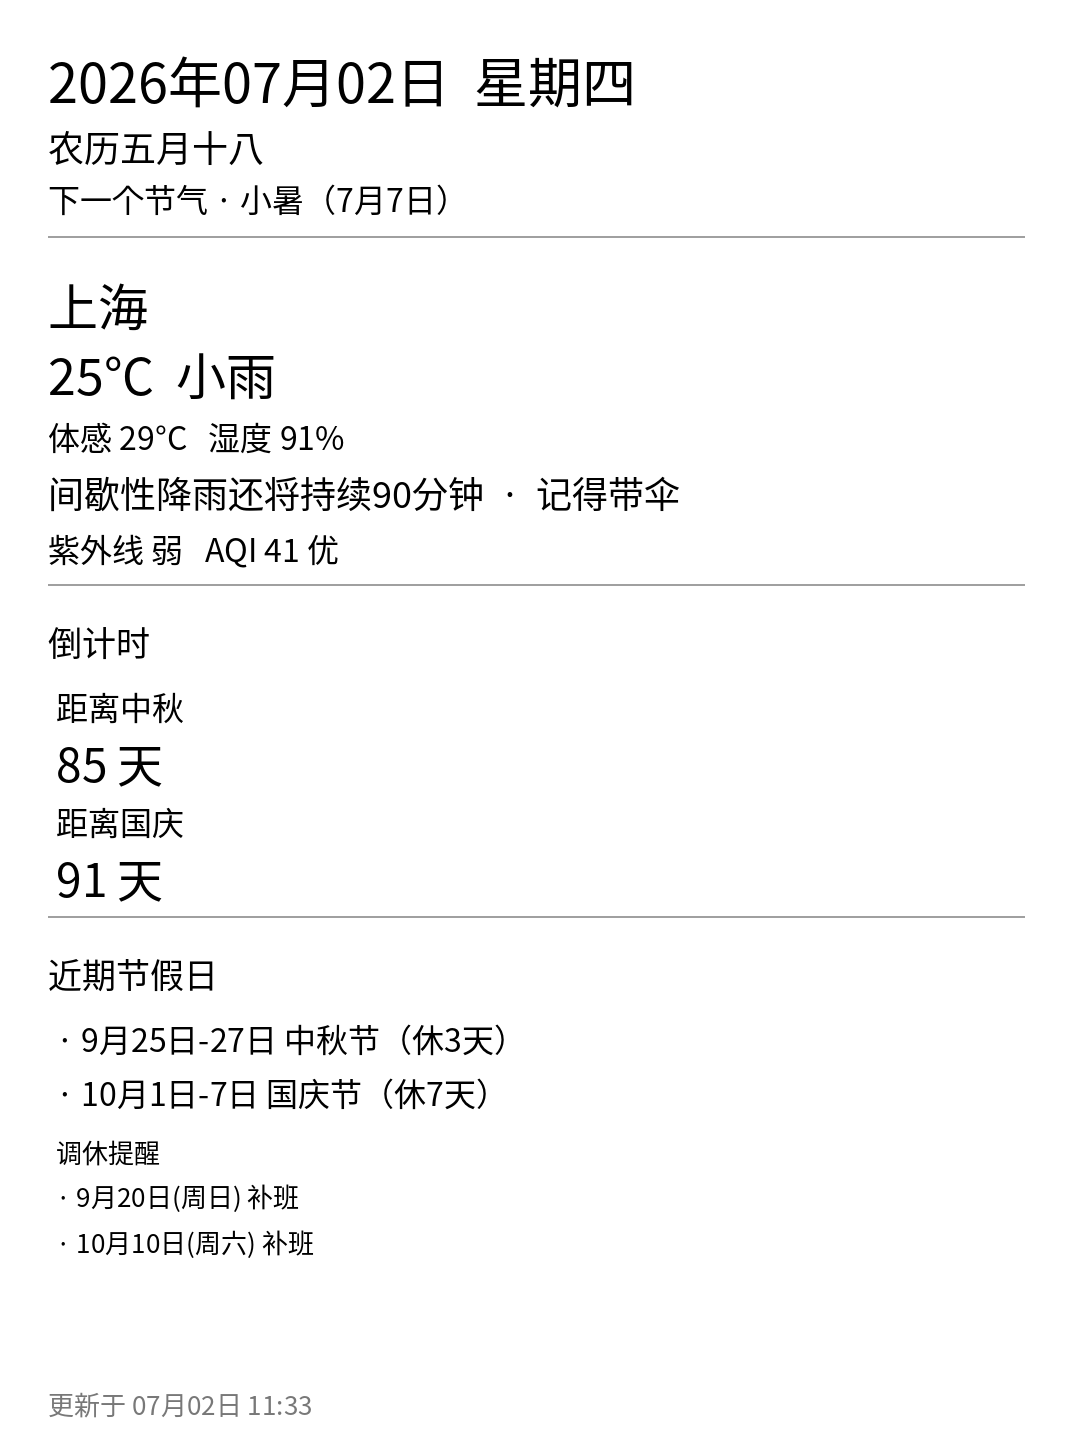
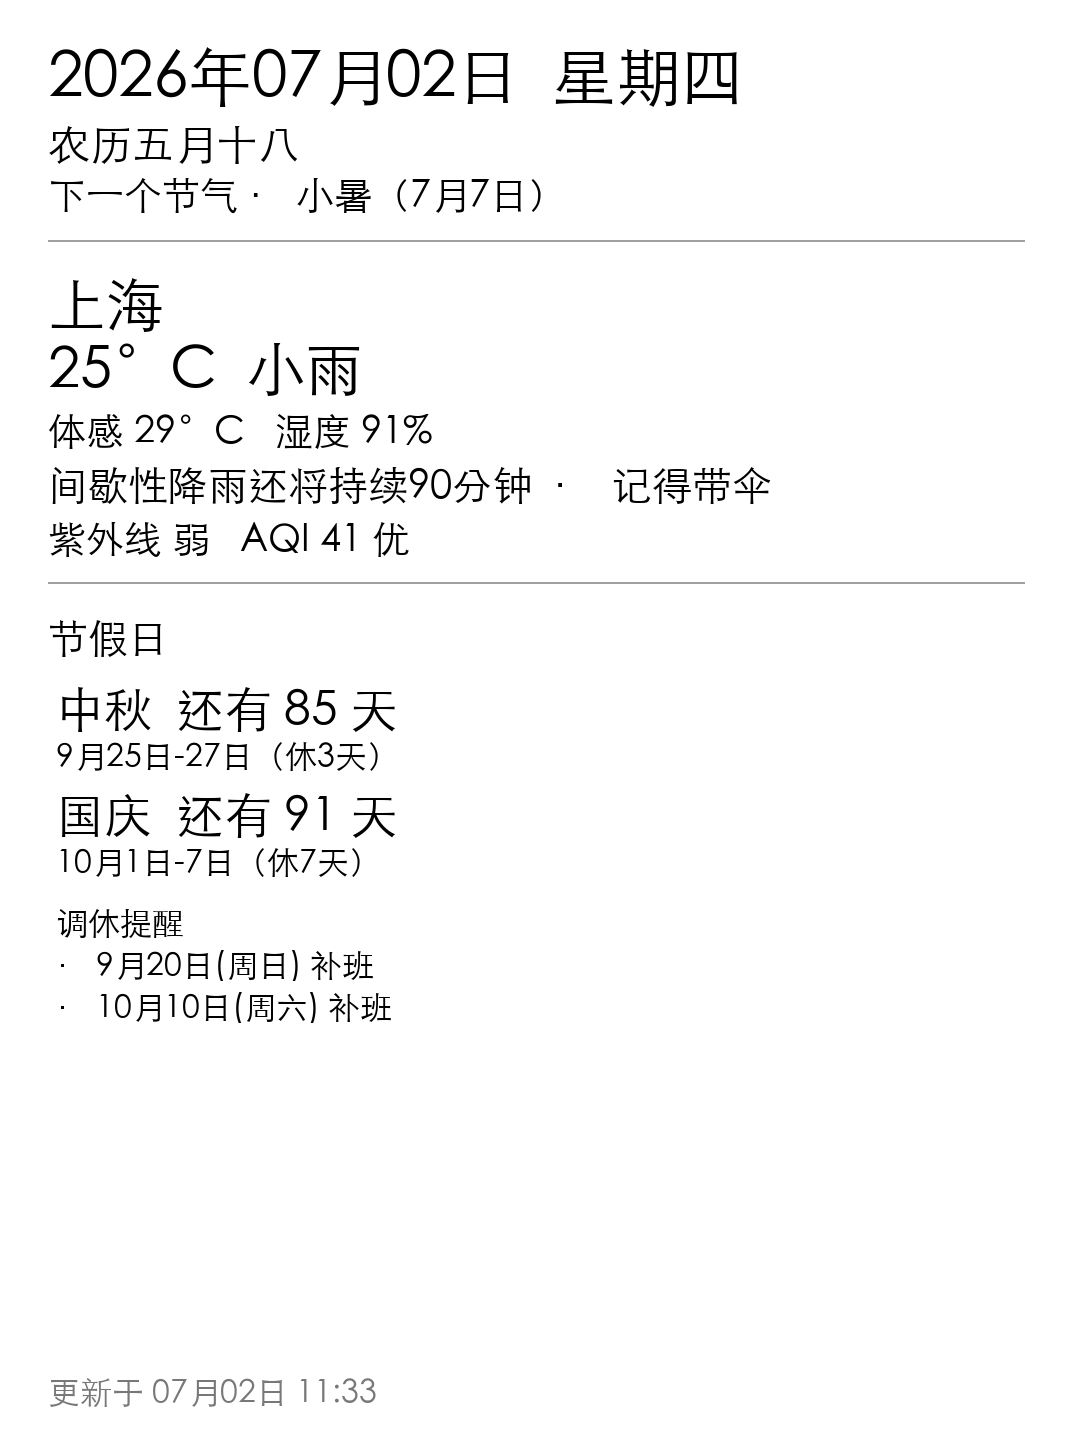
update

diff --git a/data_sources.py b/data_sources.py
@@ -12,6 +12,15 @@ import config
 
 
 @dataclass
+class HolidayItem:
+    name: str
+    days_until: int
+    date_range: str
+    off_days: int
+    is_estimate: bool
+
+
+@dataclass
 class DashboardData:
     now: datetime
     weekday: str
@@ -19,7 +28,7 @@ class DashboardData:
     jieqi_today: str
     next_jieqi_name: str
     next_jieqi_date: str
-    countdowns: list[tuple[str, int, bool]]  # name, days, is_lunar_estimate
+    holiday_items: list[HolidayItem]
     weather_text: str
     temperature: str
     feels_like: str
@@ -29,13 +38,10 @@ class DashboardData:
     uv_level: str
     aqi: str
     aqi_category: str
-    upcoming_holidays: list[str]
     makeup_workdays: list[str]
 
 
 WEEKDAYS = ["星期一", "星期二", "星期三", "星期四", "星期五", "星期六", "星期日"]
-
-COUNTDOWN_TARGETS = ["春节", "国庆", "中秋", "元旦", "清明", "端午", "劳动节"]
 
 
 def _headers() -> dict[str, str]:
@@ -84,38 +90,75 @@ def get_lunar_spring_festival_date(today: date) -> date:
     return spring_date
 
 
-def build_countdowns(today: date, holidays: list[dict[str, Any]]) -> list[tuple[str, int, bool]]:
-    results: list[tuple[str, int, bool]] = []
-    seen: set[str] = set()
+def short_holiday_name(name: str) -> str:
+    name = normalize_holiday_name(name)
+    if name.endswith("节") and len(name) > 2:
+        return name[:-1]
+    return name
 
-    for target in COUNTDOWN_TARGETS:
-        for item in holidays:
-            name = item.get("name", "")
-            if target not in name or not item.get("isOffDay"):
-                continue
-            holiday_date = date.fromisoformat(item["date"])
-            if holiday_date < today:
-                continue
-            if target in seen:
-                break
-            seen.add(target)
-            results.append((target, (holiday_date - today).days, False))
-            break
 
-    if "春节" not in seen:
+def collect_off_day_groups(holidays: list[dict[str, Any]], today: date) -> list[dict[str, Any]]:
+    items: list[dict[str, Any]] = []
+    for item in holidays:
+        holiday_date = date.fromisoformat(item["date"])
+        if holiday_date < today or holiday_date > today + timedelta(days=120):
+            continue
+        if not item.get("isOffDay"):
+            continue
+        items.append({"date": holiday_date, "name": normalize_holiday_name(item.get("name", ""))})
+
+    items.sort(key=lambda x: x["date"])
+    groups: list[dict[str, Any]] = []
+    for item in items:
+        if (
+            groups
+            and groups[-1]["name"] == item["name"]
+            and (item["date"] - groups[-1]["end"]).days == 1
+        ):
+            groups[-1]["end"] = item["date"]
+        else:
+            groups.append({"name": item["name"], "start": item["date"], "end": item["date"]})
+    return groups
+
+
+def build_holiday_overview(
+    today: date, holidays: list[dict[str, Any]]
+) -> tuple[list[HolidayItem], list[str]]:
+    items: list[HolidayItem] = []
+    for group in collect_off_day_groups(holidays, today):
+        start = group["start"]
+        end = group["end"]
+        off_days = (end - start).days + 1
+        items.append(
+            HolidayItem(
+                name=short_holiday_name(group["name"]),
+                days_until=(start - today).days,
+                date_range=format_date_range(start, end),
+                off_days=off_days,
+                is_estimate=False,
+            )
+        )
+
+    if not any("春节" in item.name for item in items):
         spring_date = get_lunar_spring_festival_date(today)
-        results.append(("春节", (spring_date - today).days, True))
+        items.append(
+            HolidayItem(
+                name="春节",
+                days_until=(spring_date - today).days,
+                date_range=f"{spring_date.month}月{spring_date.day}日",
+                off_days=1,
+                is_estimate=True,
+            )
+        )
 
-    results.sort(key=lambda x: x[1])
+    items.sort(key=lambda x: x.days_until)
+    if items:
+        nearest_days = items[0].days_until
+        max_gap = 45
+        items = [item for item in items if item.days_until <= nearest_days + max_gap][:3]
 
-    if not results:
-        return []
-
-    nearest_days = results[0][1]
-    # Hide countdowns much farther than the nearest holiday.
-    max_gap = 45
-    filtered = [item for item in results if item[1] <= nearest_days + max_gap]
-    return filtered[:2]
+    makeup = group_holiday_ranges(holidays, today, off_day=False, limit=3)
+    return items, makeup
 
 
 def normalize_holiday_name(name: str) -> str:
@@ -173,11 +216,6 @@ def group_holiday_ranges(
             lines.append(f"{date_text}(周{weekday_short}) 补班")
     return lines
 
-
-def build_upcoming_holidays(today: date, holidays: list[dict[str, Any]]) -> tuple[list[str], list[str]]:
-    upcoming = group_holiday_ranges(holidays, today, off_day=True, limit=4)
-    makeup = group_holiday_ranges(holidays, today, off_day=False, limit=3)
-    return upcoming, makeup
 
 
 def get_calendar_info(today: date) -> tuple[str, str, str, str]:
@@ -282,8 +320,7 @@ def collect_dashboard_data() -> DashboardData:
     holidays = load_holidays(today)
 
     lunar_date, jieqi_today, next_jieqi_name, next_jieqi_date = get_calendar_info(today)
-    countdowns = build_countdowns(today, holidays)
-    upcoming_holidays, makeup_workdays = build_upcoming_holidays(today, holidays)
+    holiday_items, makeup_workdays = build_holiday_overview(today, holidays)
 
     weather_text, temperature, feels_like, humidity = fetch_weather()
     raw_rain_hint = fetch_rain_hint()
@@ -298,7 +335,7 @@ def collect_dashboard_data() -> DashboardData:
         jieqi_today=jieqi_today,
         next_jieqi_name=next_jieqi_name,
         next_jieqi_date=next_jieqi_date,
-        countdowns=countdowns,
+        holiday_items=holiday_items,
         weather_text=weather_text,
         temperature=temperature,
         feels_like=feels_like,
@@ -308,6 +345,5 @@ def collect_dashboard_data() -> DashboardData:
         uv_level=uv_level,
         aqi=aqi,
         aqi_category=aqi_category,
-        upcoming_holidays=upcoming_holidays,
         makeup_workdays=makeup_workdays,
     )

diff --git a/render_dashboard.py b/render_dashboard.py
@@ -5,7 +5,7 @@ from pathlib import Path
 from PIL import Image, ImageDraw, ImageFont
 
 import config
-from data_sources import DashboardData
+from data_sources import DashboardData, HolidayItem
 
 
 def find_font(size: int) -> ImageFont.FreeTypeFont | ImageFont.ImageFont:
@@ -44,30 +44,32 @@ def text_bottom(draw: ImageDraw.ImageDraw, x: int, y: int, text: str, font, fill
 
 def draw_section_title(draw: ImageDraw.ImageDraw, x: int, y: int, title: str, font) -> int:
     bottom = text_bottom(draw, x, y, title, font)
-    return bottom + 22
+    return bottom + 28
 
 
 def draw_divider(draw: ImageDraw.ImageDraw, y: int, width: int, margin: int = 48) -> int:
     draw.line((margin, y, width - margin, y), fill=160, width=2)
-    return y + 32
+    return y + 36
 
 
-def draw_countdown_line(
+def draw_holiday_item(
     draw: ImageDraw.ImageDraw,
     x: int,
     y: int,
-    name: str,
-    days: int,
-    is_estimate: bool,
-    label_font,
-    number_font,
-    note_font,
+    item: HolidayItem,
+    title_font,
+    detail_font,
 ) -> int:
-    label = f"距离{name}"
-    if is_estimate:
-        label += "（农历估算）"
-    y = text_bottom(draw, x, y, label, label_font) + 4
-    return text_bottom(draw, x, y, f"{days} 天", number_font) + 10
+    title = item.name
+    if item.is_estimate:
+        title += "（农历估算）"
+
+    y = text_bottom(draw, x, y, f"{title}  还有 {item.days_until} 天", title_font) + 8
+
+    detail = item.date_range
+    if item.off_days > 1:
+        detail += f"（休{item.off_days}天）"
+    return text_bottom(draw, x, y, detail, detail_font) + 20
 
 
 def render_dashboard(data: DashboardData, output_path: Path) -> Path:
@@ -75,41 +77,41 @@ def render_dashboard(data: DashboardData, output_path: Path) -> Path:
     image = Image.new("L", (width, height), 255)
     draw = ImageDraw.Draw(image)
 
-    title_font = find_font(54)
-    subtitle_font = find_font(36)
-    section_font = find_font(34)
-    body_font = find_font(32)
-    small_font = find_font(26)
-    weather_font = find_font(50)
-    countdown_number_font = find_font(46)
-    rain_alert_font = find_font(36)
+    title_font = find_font(64)
+    subtitle_font = find_font(42)
+    section_font = find_font(40)
+    body_font = find_font(38)
+    detail_font = find_font(32)
+    weather_font = find_font(58)
+    holiday_title_font = find_font(48)
+    rain_alert_font = find_font(40)
 
     margin = 48
-    y = 40
+    y = 44
 
     date_line = data.now.strftime("%Y年%m月%d日") + f"  {data.weekday}"
-    y = text_bottom(draw, margin, y, date_line, title_font) + 12
-    y = text_bottom(draw, margin, y, data.lunar_date, subtitle_font) + 8
+    y = text_bottom(draw, margin, y, date_line, title_font) + 16
+    y = text_bottom(draw, margin, y, data.lunar_date, subtitle_font) + 12
 
     if data.jieqi_today:
         jieqi_line = f"今日节气 · {data.jieqi_today}"
     else:
         jieqi_line = f"下一个节气 · {data.next_jieqi_name}（{data.next_jieqi_date}）"
-    y = text_bottom(draw, margin, y, jieqi_line, body_font) + 12
-    y = draw_divider(draw, y + 8, width, margin)
+    y = text_bottom(draw, margin, y, jieqi_line, body_font) + 16
+    y = draw_divider(draw, y + 10, width, margin)
 
-    y = text_bottom(draw, margin, y, config.CITY_NAME, weather_font) + 6
-    y = text_bottom(draw, margin, y, f"{data.temperature}  {data.weather_text}", weather_font) + 12
+    y = text_bottom(draw, margin, y, config.CITY_NAME, weather_font) + 8
+    y = text_bottom(draw, margin, y, f"{data.temperature}  {data.weather_text}", weather_font) + 16
     y = text_bottom(
         draw,
         margin,
         y,
         f"体感 {data.feels_like}   湿度 {data.humidity}",
         body_font,
-    ) + 12
+    ) + 16
 
     rain_font = rain_alert_font if data.rain_alert else body_font
-    y = text_bottom(draw, margin, y, data.rain_hint, rain_font) + 12
+    y = text_bottom(draw, margin, y, data.rain_hint, rain_font) + 16
 
     y = text_bottom(
         draw,
@@ -117,42 +119,24 @@ def render_dashboard(data: DashboardData, output_path: Path) -> Path:
         y,
         f"紫外线 {data.uv_level}   AQI {data.aqi} {data.aqi_category}",
         body_font,
-    ) + 12
-    y = draw_divider(draw, y + 4, width, margin)
+    ) + 16
+    y = draw_divider(draw, y + 8, width, margin)
 
-    y = draw_section_title(draw, margin, y, "倒计时", section_font)
-    if data.countdowns:
-        for name, days, is_estimate in data.countdowns:
-            y = draw_countdown_line(
-                draw,
-                margin + 8,
-                y,
-                name,
-                days,
-                is_estimate,
-                body_font,
-                countdown_number_font,
-                small_font,
-            )
+    y = draw_section_title(draw, margin, y, "节假日", section_font)
+    if data.holiday_items:
+        for item in data.holiday_items:
+            y = draw_holiday_item(draw, margin + 8, y, item, holiday_title_font, detail_font)
     else:
-        y = text_bottom(draw, margin + 8, y, "暂无即将到来的节日", body_font) + 12
-    y = draw_divider(draw, y + 4, width, margin)
-
-    y = draw_section_title(draw, margin, y, "近期节假日", section_font)
-    if data.upcoming_holidays:
-        for line in data.upcoming_holidays:
-            y = text_bottom(draw, margin + 8, y, f"· {line}", body_font) + 12
-    else:
-        y = text_bottom(draw, margin + 8, y, "未来120天暂无节假日", body_font) + 12
+        y = text_bottom(draw, margin + 8, y, "未来120天暂无节假日", body_font) + 16
 
     if data.makeup_workdays:
         y += 10
-        y = text_bottom(draw, margin + 8, y, "调休提醒", small_font) + 10
+        y = text_bottom(draw, margin + 8, y, "调休提醒", detail_font) + 10
         for line in data.makeup_workdays:
-            y = text_bottom(draw, margin + 8, y, f"· {line}", small_font) + 10
+            y = text_bottom(draw, margin + 8, y, f"· {line}", detail_font) + 10
 
     updated = data.now.strftime("更新于 %m月%d日 %H:%M")
-    draw.text((margin, height - 64), updated, fill=120, font=small_font)
+    draw.text((margin, height - 72), updated, fill=120, font=detail_font)
 
     output_path.parent.mkdir(parents=True, exist_ok=True)
     image.save(output_path, format="PNG", optimize=True)